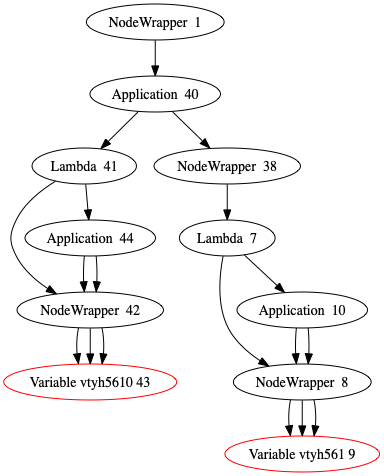
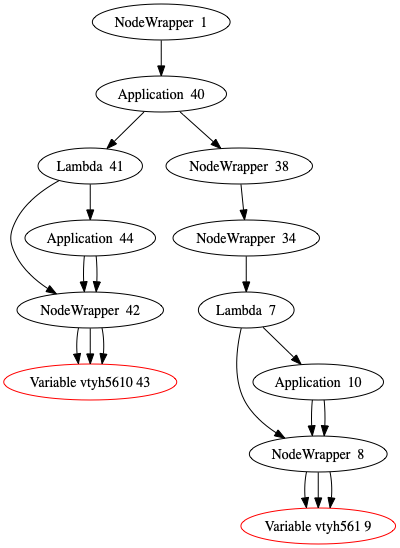
re 38

diff --git a/TT/kotlin2/src/main/ru/ifmo/parser/expression/operations/Application.kt b/TT/kotlin2/src/main/ru/ifmo/parser/expression/operations/Application.kt
@@ -201,21 +201,22 @@ class Application(private var left: Node, private var right: Node) : Node {
 //        leftLambda.right = leftLambda.right.openWrapper(mutableSetOf(lambdaArgWrapper))
 
 
-//        if (right is NodeWrapper && ((right as NodeWrapper).node is NodeWrapper)) {
-//            var r1 =(right as NodeWrapper)
-//            var r2 =((right as NodeWrapper).node as NodeWrapper)
+        if (right is NodeWrapper && ((right as NodeWrapper).node is NodeWrapper)) {
+            var r1 =(right as NodeWrapper)
+            var r2 =((right as NodeWrapper).node as NodeWrapper)
 //            r2.setParent(this)
 //            right = r2
-//            r2.node.setParent(r1)
-//            r1.node = r2.node
-//
-//            (right as NodeWrapper).node.setParent(lambdaArgWrapper) //????
-//            lambdaArgWrapper.node = (right as NodeWrapper).node
 
-//        } else {
+            r2.node.setParent(r1)
+            r1.node = r2.node
+
+            (right as NodeWrapper).node.setParent(lambdaArgWrapper) //????
+            lambdaArgWrapper.node = (right as NodeWrapper).node
+//
+        } else {
             right.setParent(lambdaArgWrapper)
             lambdaArgWrapper.node = right
-//        }
+        }
 
 
         if (parentNode != null) {

diff --git a/TT/kotlin2/src/main/ru/ifmo/parser/expression/values/NodeWrapper.kt b/TT/kotlin2/src/main/ru/ifmo/parser/expression/values/NodeWrapper.kt
@@ -28,6 +28,10 @@ data class NodeWrapper(var node: Node) : Node {
 
 
     override fun getBReduction(): Node? {
+        while (node is NodeWrapper) {
+            (node as NodeWrapper).node.setParent(this)
+            node = (node as NodeWrapper).node
+        }
         return node.getBReduction()
     }
 

diff --git a/TT/kotlin2/src/main/ru/ifmo/Main2.kt b/TT/kotlin2/src/main/ru/ifmo/Main2.kt
@@ -78,8 +78,8 @@ fun main() {
 //    val was = "(\\x.(\\u.\\v.u) x x x) ((\\z.y) a)"
 
 
-//    val was = "(\\x.x x)(\\x.x x)"
-    val was = "(\\x. x x x x)((\\x.  x)(\\x.  x))"
+    val was = "(\\x.x x)(\\x.x x)"
+//    val was = "(\\x. x x x x)((\\x.  x)(\\x.  x))"
 
 
 //Infinity loop
